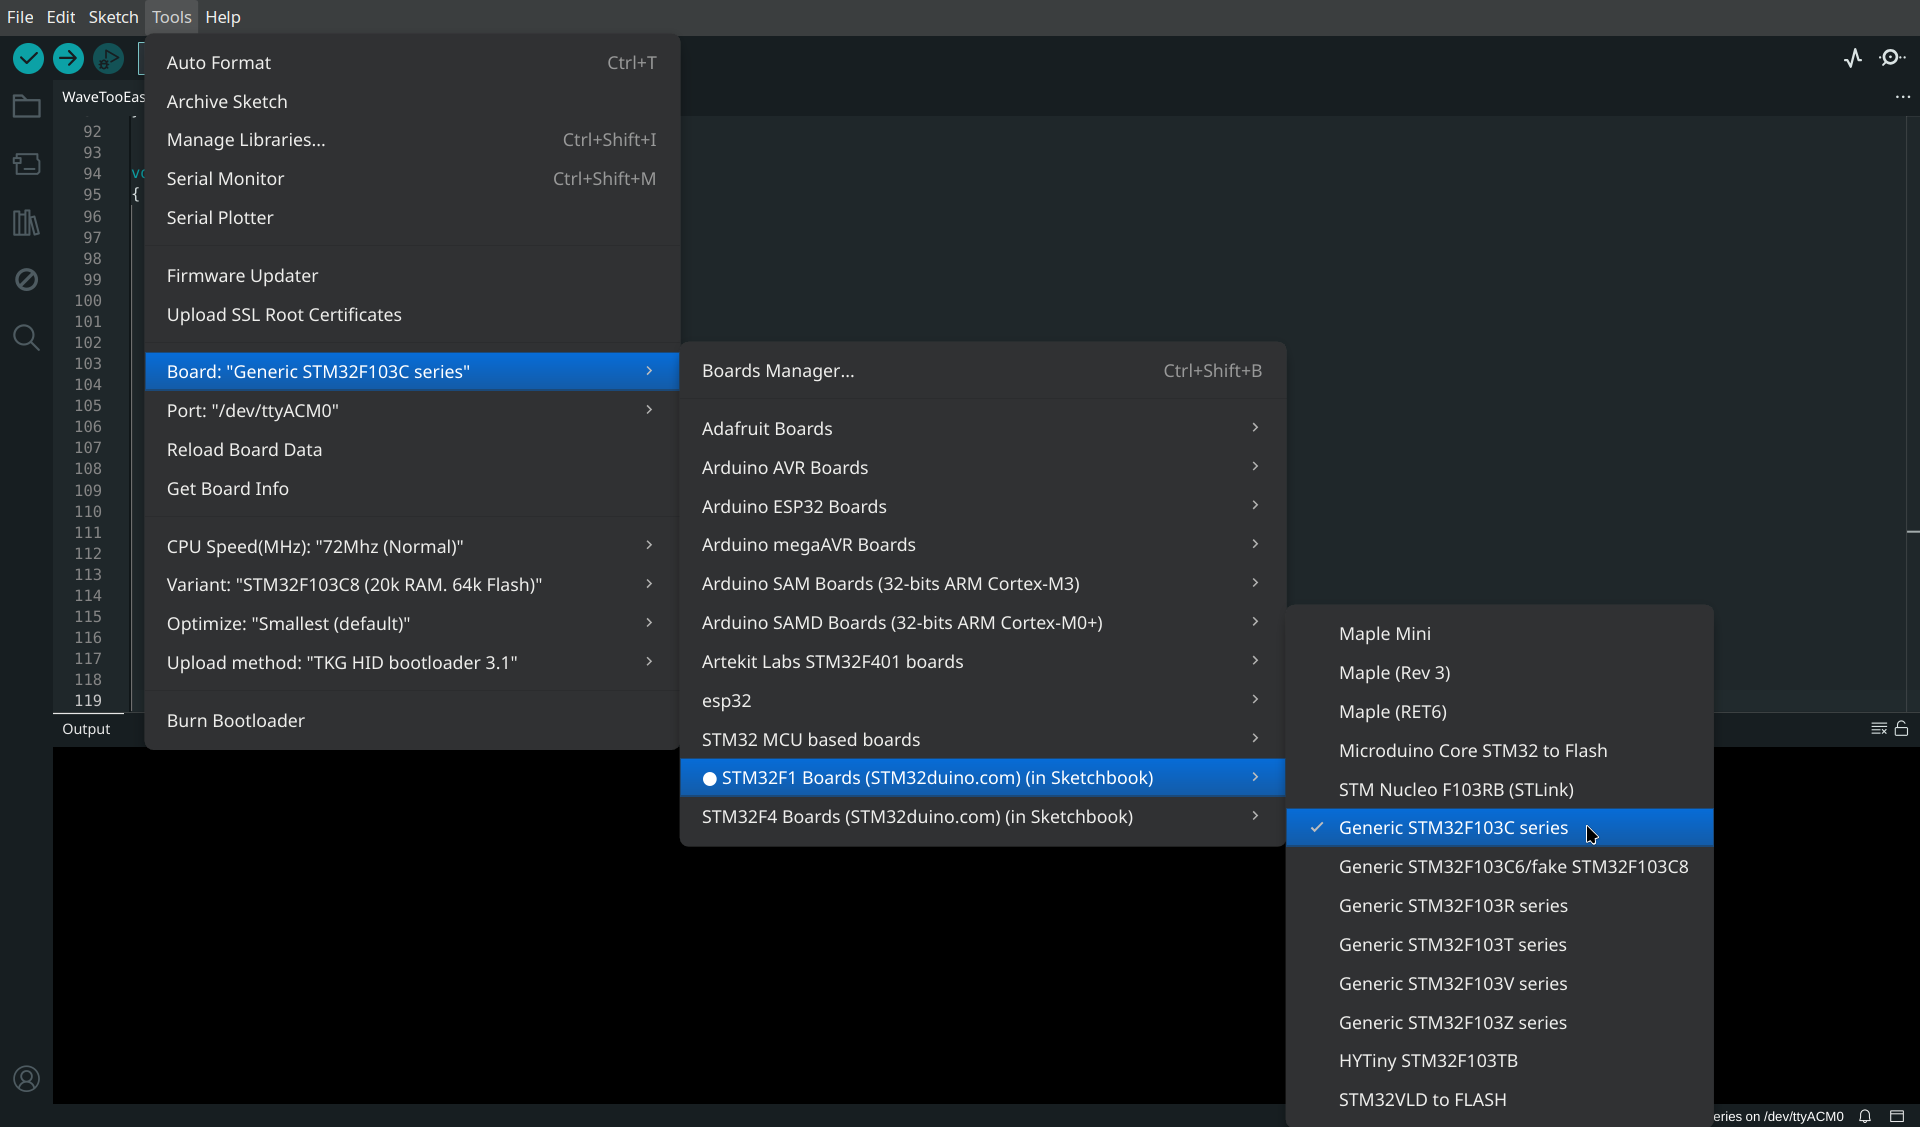
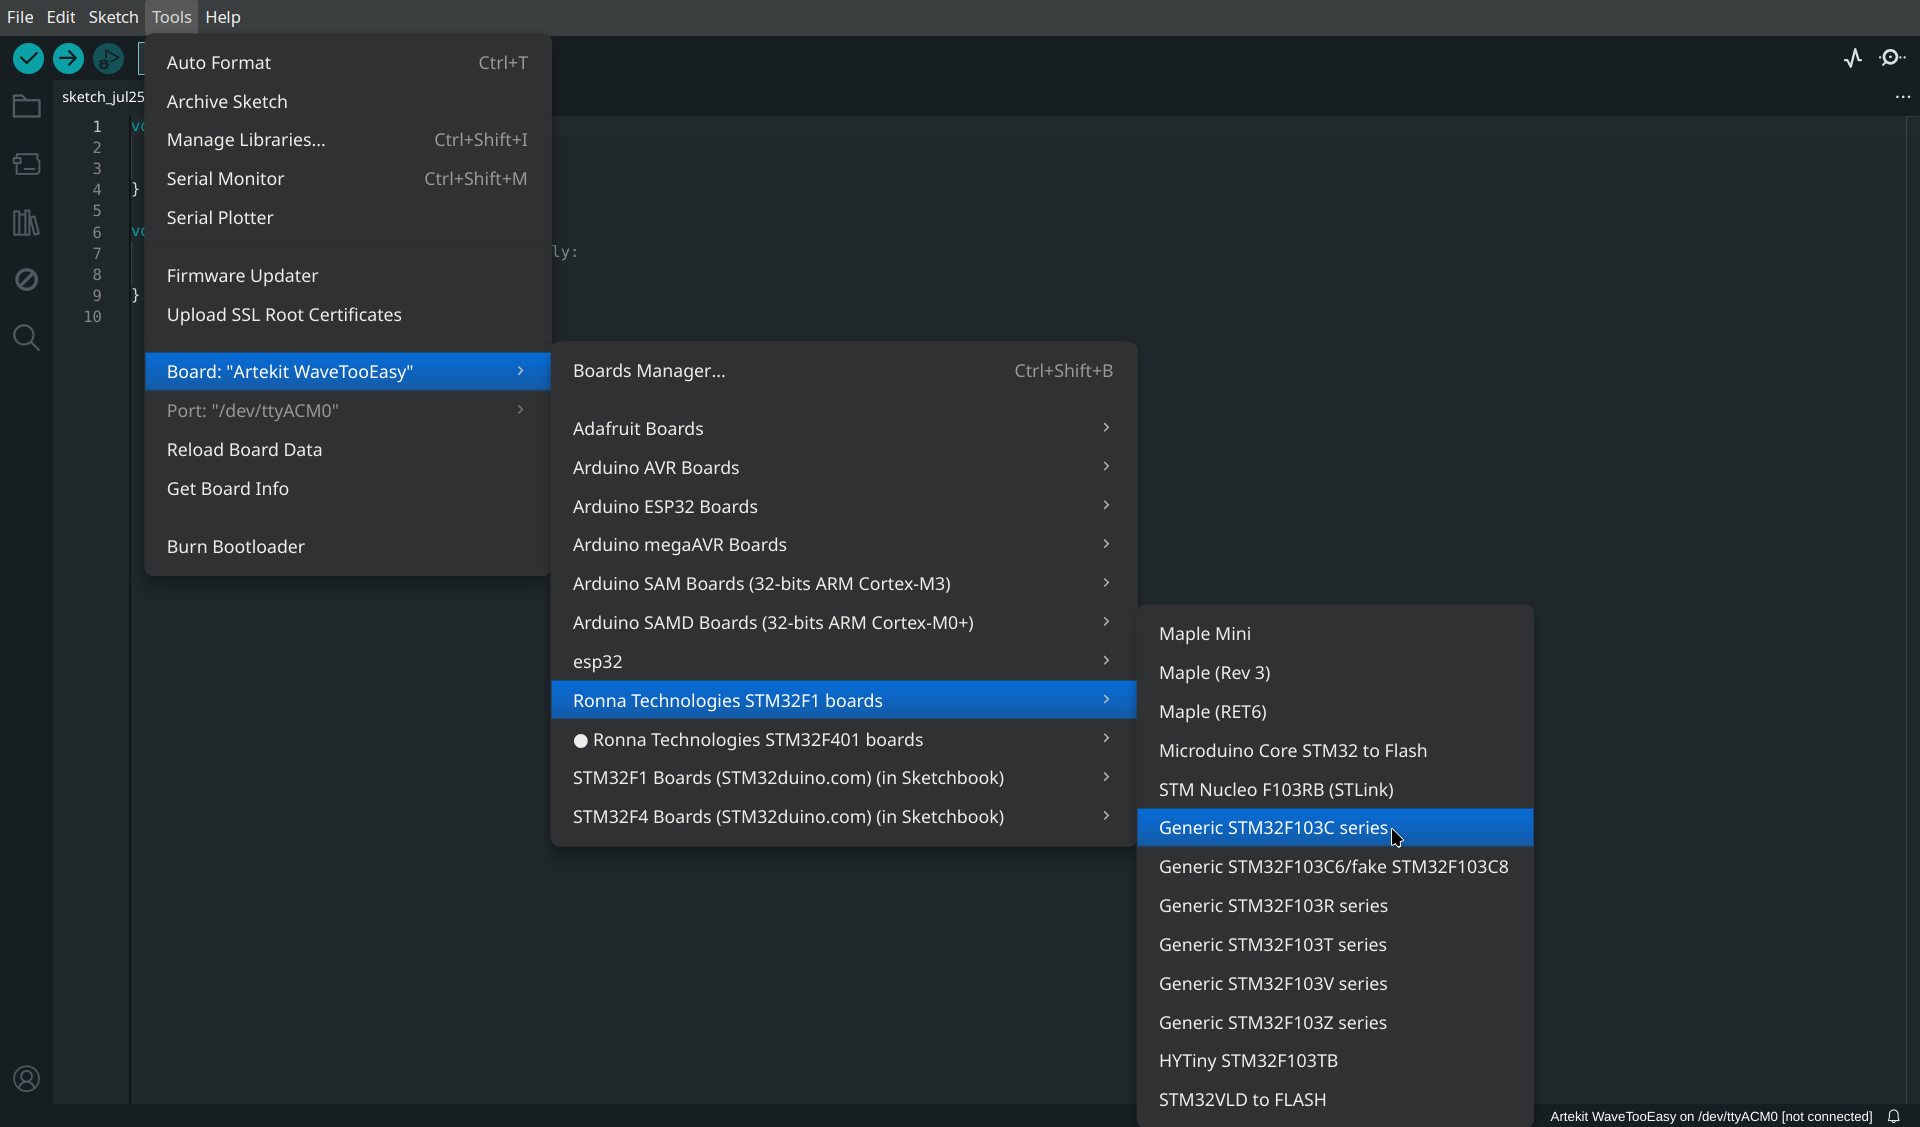
update sensor sdk section (new way)

diff --git a/doc/4.sensor_sdk.md b/doc/4.sensor_sdk.md
@@ -2,22 +2,13 @@
 
 ## That's a Blue Pill
 
-NiftyDrum is powered by the **STM32F103C8T6** microcontroller, the same chip found in the iconic "**Blue Pill**" development board.
+NiftyDrum is powered by the **STM32F103C8T6** microcontroller, the same chip found in the "**Blue Pill**" development board.
 
 If you're unfamiliar with the Blue Pill, it’s a widely recognized and versatile board based on the STM32F103C microcontroller family. With **72MHz** clock speed, **64KB of flash** memory, and **20KB of RAM**, it offers plenty of flexibility for customization and experimentation.
 
 ## Arduino IDE
 
-NiftyDrum uses the same microcontroller as the Blue Pill, which means you can program the board using the Arduino IDE. However, you'll first need to install a C++ compiler that targets the STM32F1.
-
-!!! warning
-    This section assumes you have already installed the Arduino IDE.
-
-### ARM None-EABI Toolchain
-
-**Linux users** can install the ARM None-EABI toolchain directly from their package manager. The package is typically named `gcc-arm-none-eabi`.
-
-**Windows and macOS users** should download the official ARM toolchain from [Developer.arm.com](https://developer.arm.com/downloads/-/arm-gnu-toolchain-downloads){:target=_blank}. Make sure to select the correct version for your operating system.
+Since NiftyDrum uses the same microcontroller as the Blue Pill, you can program the board using the Arduino IDE.
 
 ### Arduino STM32 SDK
 
@@ -26,34 +17,25 @@ Once you have a working ARM None-EABI toolchain, you will need to install the Ar
 !!! note
     Although it's called Arduino STM32 RonnaTech SDK, this is actually a fork of [Roger Clark's Arduino STM32 repository](https://github.com/rogerclarkmelbourne/Arduino_STM32){:target=_blank} with some minor modifications.
 
-#### Installation Steps
+Here are the steps to follow to install the SDK and use it in the Arduino IDE: 
 
-- Download and unzip the [Arduino STM32 RonnaTech SDK](https://ronnatech.com/sdm_downloads/arduino_stm32/){:target=_blank}.
-- Move the unzipped `Arduino_STM32` folder to the appropriate location:
-  - **Linux**: Navigate to your home directory, then to the `Arduino` folder. Create a new folder named `hardware` and move `Arduino_STM32` into it.
-  - **Windows**: Copy the `Arduino_STM32` folder to `My Documents/Arduino/hardware`. If the `hardware` folder doesn't exist, create it first. The final path should be `Documents/Arduino/hardware/Arduino_STM32`.
-  - **macOS**: Place the `Arduino_STM32` folder inside `~/Documents/Arduino/hardware`. If the `hardware` folder doesn't exist, create it first. The final path should be `~/Documents/Arduino/hardware/Arduino_STM32`.
+1. Open **File > Preferences** in the Arduino IDE.
+2. Add the following URL to the **Additional boards manager URLs** field:
 
-#### Configure the Toolchain Path
+   ```text
+   https://ronnatech.com/wp-content/uploads/package_ronnatech_index.json
+   ```
 
-After installing the SDK, you need to specify the location of your ARM None-EABI toolchain.
+3. Open the Boards Manager and search for RonnaTech.
+4. Select `Ronna Technologies STM32F1` boards and install the latest version.
 
-Create a new file named `platform.local.txt` in the `Arduino_STM32/STM32_F1` folder.
-
-If you installed the toolchain via a Linux package manager (e.g., `sudo apt install gcc-arm-none-eabi`), the compiler is typically located at `/usr/bin/arm-none-eabi-g++`. In this case, add the following to `platform.local.txt`:
-
-```txt title="Arduino_STM32/STM32_F1/platform.local.txt"
-runtime.tools.arm-none-eabi-gcc.path=/usr/bin/
-```
-
-Adjust the path according to your actual installation location.
-
-### Configure and Compile Sketch
-
-The easiest way to use the sensor SDK with the Arduino IDE is to install the [stm32duino](https://github.com/stm32duino) board manager. To that end, go to the board manager and search for `stm32`. Once that is done, you can select the board from the menu:
+Go to the board manager and search for `stm32`. Once that is done, you can select the board from the menu:
 
 ![Arduino IDE board selection (Light Mode)](assets/sensor_sdk/select_board_light.png){ .light-mode-only .img-shadow-lg }
 ![Arduino IDE board selection (Dark Mode)](assets/sensor_sdk/select_board_dark.png){ .dark-mode-only .img-shadow-lg }
+
+![Arduino IDE board configuration (Light Mode)](assets/sensor_sdk/select_board_config_light.png){ .light-mode-only .img-shadow-lg }
+![Arduino IDE board configuration (Dark Mode)](assets/sensor_sdk/select_board_config_dark.png){ .dark-mode-only .img-shadow-lg }
 
 Be sure to select the correct CPU frequency, variant, and upload method, as shown on the image above.
 The most reliable way to build the firmware is to go to the `Sketch` menu and click on `Export Compiled Binary`, or use the shortcut ++alt+ctrl+s++. Then, to find the firmware file, got to `Sketch` again, and `Show Sketch Folder`, or use the shortcut ++alt+ctrl+k++.
